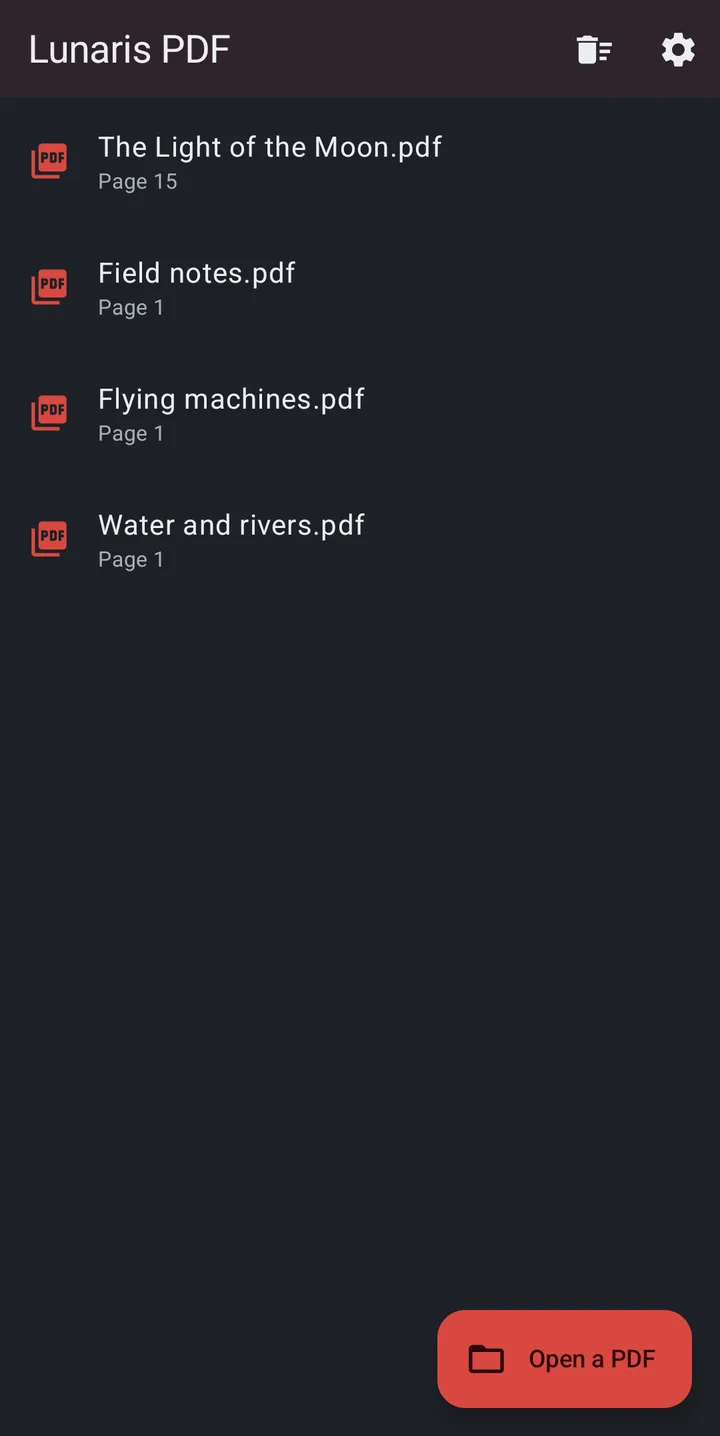
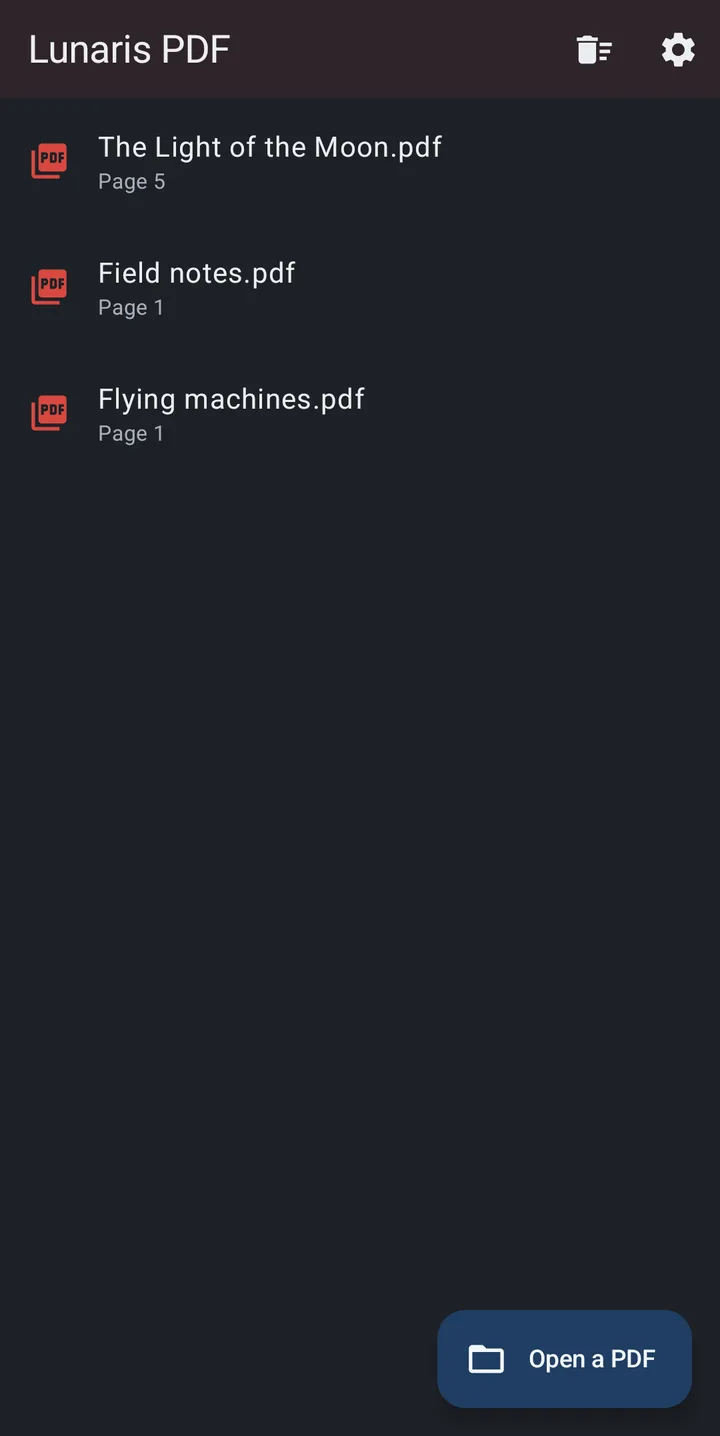
add a setting to hide the back to top button in Lunaris PDF
Give the open button a deep blue instead of the red accent.

diff --git a/lunaris-pdf/app/src/test/kotlin/io/github/martindavinci/lunaris/pdf/feature/reader/ReaderViewModelTest.kt b/lunaris-pdf/app/src/test/kotlin/io/github/martindavinci/lunaris/pdf/feature/reader/ReaderViewModelTest.kt
@@ -78,6 +78,7 @@ class ReaderViewModelTest {
     private val current = CurrentDocument()
     private val savedState = SavedStateHandle()
     private val night = MutableStateFlow(false)
+    private val topButton = MutableStateFlow(true)
     private val touched = mutableListOf<Pair<String, String>>()
     private val positions = mutableListOf<Triple<String, Int, String>>()
     private var enginesMade = 0
@@ -99,6 +100,7 @@ class ReaderViewModelTest {
         savedState = state,
         nightPages = night,
         setNightPages = { night.value = it },
+        topButtonEnabled = topButton,
         touchRecent = { uri, name -> touched += uri to name },
         savePosition = { uri, page, scale -> positions += Triple(uri, page, scale) },
         speechEngine = {
@@ -130,6 +132,17 @@ class ReaderViewModelTest {
         assertThat(vm.state.value.showTopButton).isTrue()
         vm.onAction(ReaderAction.BackToTop)
         assertThat(channel.sent).contains(ViewerCommand.GoToPage(1))
+    }
+
+    @Test fun topButtonTurnedOff_doesNotShowOnAnyPage() {
+        val vm = viewModel()
+        ready()
+        emit(ViewerEvent.PageChanged(5, "page-width"))
+        assertThat(vm.state.value.showTopButton).isTrue()
+        topButton.value = false
+        assertThat(vm.state.value.showTopButton).isFalse()
+        topButton.value = true
+        assertThat(vm.state.value.showTopButton).isTrue()
     }
 
     @Test fun ready_opensTheDocumentWhereItWasLeft() {

diff --git a/lunaris-pdf/app/src/main/kotlin/io/github/martindavinci/lunaris/pdf/feature/reader/ReaderViewModel.kt b/lunaris-pdf/app/src/main/kotlin/io/github/martindavinci/lunaris/pdf/feature/reader/ReaderViewModel.kt
@@ -35,6 +35,7 @@ class ReaderViewModel internal constructor(
     savedState: SavedStateHandle,
     nightPages: Flow<Boolean>,
     private val setNightPages: suspend (Boolean) -> Unit,
+    topButtonEnabled: Flow<Boolean>,
     private val touchRecent: suspend (String, String) -> Unit,
     savePosition: suspend (String, Int, String) -> Unit,
     speechEngine: () -> SpeechEngine,
@@ -56,6 +57,7 @@ class ReaderViewModel internal constructor(
         savedState,
         settingsStore.settings.map { it.nightPages }.distinctUntilChanged(),
         settingsStore::setNightPages,
+        settingsStore.settings.map { it.topButton }.distinctUntilChanged(),
         recents::touch,
         recents::savePosition,
         speechEngine::get,
@@ -76,6 +78,9 @@ class ReaderViewModel internal constructor(
     init {
         viewModelScope.launch { viewer.events.collect(::onEvent) }
         viewModelScope.launch { nightPages.collect(::onNight) }
+        viewModelScope.launch {
+            topButtonEnabled.collect { on -> mutableState.update { it.copy(topButtonEnabled = on) } }
+        }
         viewModelScope.launch {
             delay(READY_TIMEOUT_MILLIS)
             if (!pageReady) onEvent(ViewerEvent.LoadFailed)

diff --git a/lunaris-pdf/app/src/main/kotlin/io/github/martindavinci/lunaris/pdf/settings/SettingsStore.kt b/lunaris-pdf/app/src/main/kotlin/io/github/martindavinci/lunaris/pdf/settings/SettingsStore.kt
@@ -17,6 +17,7 @@ class SettingsStore @Inject constructor(private val dataStore: DataStore<Prefere
         AppSettings(
             theme = ThemeMode.entries.firstOrNull { it.name == prefs[THEME] } ?: defaults.theme,
             nightPages = prefs[NIGHT_PAGES] ?: defaults.nightPages,
+            topButton = prefs[TOP_BUTTON] ?: defaults.topButton,
         )
     }
 
@@ -28,8 +29,13 @@ class SettingsStore @Inject constructor(private val dataStore: DataStore<Prefere
         dataStore.editIfPossible { it[NIGHT_PAGES] = on }
     }
 
+    suspend fun setTopButton(on: Boolean) {
+        dataStore.editIfPossible { it[TOP_BUTTON] = on }
+    }
+
     private companion object {
         val THEME = stringPreferencesKey("theme")
         val NIGHT_PAGES = booleanPreferencesKey("night_pages")
+        val TOP_BUTTON = booleanPreferencesKey("top_button")
     }
 }

diff --git a/lunaris-pdf/app/src/test/kotlin/io/github/martindavinci/lunaris/pdf/settings/SettingsStoreTest.kt b/lunaris-pdf/app/src/test/kotlin/io/github/martindavinci/lunaris/pdf/settings/SettingsStoreTest.kt
@@ -27,11 +27,14 @@ class SettingsStoreTest {
 
     @Test fun nothingStored_givesTheDefaults() = runBlocking {
         assertThat(store.settings.first()).isEqualTo(AppSettings())
+        assertThat(store.settings.first().topButton).isTrue()
     }
 
     @Test fun choices_areKept() = runBlocking {
         store.setTheme(ThemeMode.DARK)
         store.setNightPages(true)
-        assertThat(store.settings.first()).isEqualTo(AppSettings(ThemeMode.DARK, nightPages = true))
+        store.setTopButton(false)
+        assertThat(store.settings.first())
+            .isEqualTo(AppSettings(ThemeMode.DARK, nightPages = true, topButton = false))
     }
 }

diff --git a/lunaris-pdf/app/src/main/kotlin/io/github/martindavinci/lunaris/pdf/feature/settings/SettingsRoute.kt b/lunaris-pdf/app/src/main/kotlin/io/github/martindavinci/lunaris/pdf/feature/settings/SettingsRoute.kt
@@ -75,6 +75,12 @@ internal fun SettingsContent(
                 checked = state.settings.nightPages,
                 onCheckedChange = { onAction(SettingsAction.SetNightPages(it)) },
             )
+            SettingsToggleRow(
+                title = stringResource(R.string.settings_top_button),
+                subtitle = stringResource(R.string.settings_top_button_summary),
+                checked = state.settings.topButton,
+                onCheckedChange = { onAction(SettingsAction.SetTopButton(it)) },
+            )
 
             SettingsSectionHeader(stringResource(R.string.settings_section_about))
             AboutSummary()

diff --git a/lunaris-pdf/app/src/main/kotlin/io/github/martindavinci/lunaris/pdf/feature/recents/RecentsScreen.kt b/lunaris-pdf/app/src/main/kotlin/io/github/martindavinci/lunaris/pdf/feature/recents/RecentsScreen.kt
@@ -92,7 +92,8 @@ internal fun RecentsScreen(
         }
         ExtendedFloatingActionButton(
             onClick = onPickFile,
-            containerColor = MaterialTheme.colorScheme.primary,
+            containerColor = MaterialTheme.colorScheme.tertiaryContainer,
+            contentColor = MaterialTheme.colorScheme.onTertiaryContainer,
             icon = { Icon(Icons.Filled.FolderOpen, contentDescription = null) },
             text = { Text(stringResource(R.string.recents_open)) },
             modifier = Modifier.align(Alignment.BottomEnd).padding(FabPadding),

diff --git a/lunaris-pdf/app/src/main/kotlin/io/github/martindavinci/lunaris/pdf/settings/AppSettings.kt b/lunaris-pdf/app/src/main/kotlin/io/github/martindavinci/lunaris/pdf/settings/AppSettings.kt
@@ -2,8 +2,12 @@ package io.github.martindavinci.lunaris.pdf.settings
 
 
 
-/** [nightPages]: pages are shown with their colours inverted, for reading in the dark. */
+/**
+ * [nightPages]: pages are shown with their colours inverted, for reading in the dark.
+ * [topButton]: the button back to the first page shows while reading.
+ */
 data class AppSettings(
     val theme: ThemeMode = ThemeMode.SYSTEM,
     val nightPages: Boolean = false,
+    val topButton: Boolean = true,
 )

diff --git a/lunaris-pdf/app/src/main/kotlin/io/github/martindavinci/lunaris/pdf/ui/theme/Theme.kt b/lunaris-pdf/app/src/main/kotlin/io/github/martindavinci/lunaris/pdf/ui/theme/Theme.kt
@@ -19,10 +19,14 @@ private val DarkColors = darkColorScheme(
     surfaceVariant = LunarisSurfaceVariant,
     onSurfaceVariant = LunarisOnSurfaceVariant,
     outline = LunarisOutline,
+    tertiaryContainer = LunarisDeepBlue,
+    onTertiaryContainer = LunarisOnDeepBlue,
 )
 
 private val LightColors = lightColorScheme(
     primary = LunarisAccent,
+    tertiaryContainer = LunarisDeepBlue,
+    onTertiaryContainer = LunarisOnDeepBlue,
 )
 
 @Composable

diff --git a/lunaris-pdf/app/src/main/kotlin/io/github/martindavinci/lunaris/pdf/feature/settings/SettingsViewModel.kt b/lunaris-pdf/app/src/main/kotlin/io/github/martindavinci/lunaris/pdf/feature/settings/SettingsViewModel.kt
@@ -23,6 +23,7 @@ class SettingsViewModel @Inject constructor(private val settingsStore: SettingsS
             when (action) {
                 is SettingsAction.SetTheme -> settingsStore.setTheme(action.theme)
                 is SettingsAction.SetNightPages -> settingsStore.setNightPages(action.on)
+                is SettingsAction.SetTopButton -> settingsStore.setTopButton(action.on)
             }
         }
     }

diff --git a/lunaris-pdf/app/src/main/kotlin/io/github/martindavinci/lunaris/pdf/feature/reader/ReaderUiState.kt b/lunaris-pdf/app/src/main/kotlin/io/github/martindavinci/lunaris/pdf/feature/reader/ReaderUiState.kt
@@ -25,8 +25,9 @@ data class ReaderUiState(
     val notice: ReaderNotice? = null,
     val canPrint: Boolean = true,
     val viewRevision: Int = 0,
+    val topButtonEnabled: Boolean = true,
 ) {
-    val showTopButton: Boolean get() = page > 1
+    val showTopButton: Boolean get() = topButtonEnabled && page > 1
 }
 
 enum class ReaderError { CANNOT_OPEN }

diff --git a/lunaris-pdf/app/src/main/kotlin/io/github/martindavinci/lunaris/pdf/ui/theme/Color.kt b/lunaris-pdf/app/src/main/kotlin/io/github/martindavinci/lunaris/pdf/ui/theme/Color.kt
@@ -11,3 +11,7 @@ val LunarisOnSurfaceVariant = Color(0xFFAAB0B9)
 val LunarisOutline = Color(0xFF3B414A)
 val LunarisAccent = Color(0xFFD9483F)
 val LunarisOnAccent = Color(0xFF2A0605)
+
+// Deep blue, for the button that opens a document.
+val LunarisDeepBlue = Color(0xFF203D62)
+val LunarisOnDeepBlue = Color(0xFFF2F6FB)

diff --git a/lunaris-pdf/app/src/main/kotlin/io/github/martindavinci/lunaris/pdf/feature/settings/SettingsUiState.kt b/lunaris-pdf/app/src/main/kotlin/io/github/martindavinci/lunaris/pdf/feature/settings/SettingsUiState.kt
@@ -8,4 +8,5 @@ data class SettingsUiState(val settings: AppSettings = AppSettings())
 sealed interface SettingsAction {
     data class SetTheme(val theme: ThemeMode) : SettingsAction
     data class SetNightPages(val on: Boolean) : SettingsAction
+    data class SetTopButton(val on: Boolean) : SettingsAction
 }
